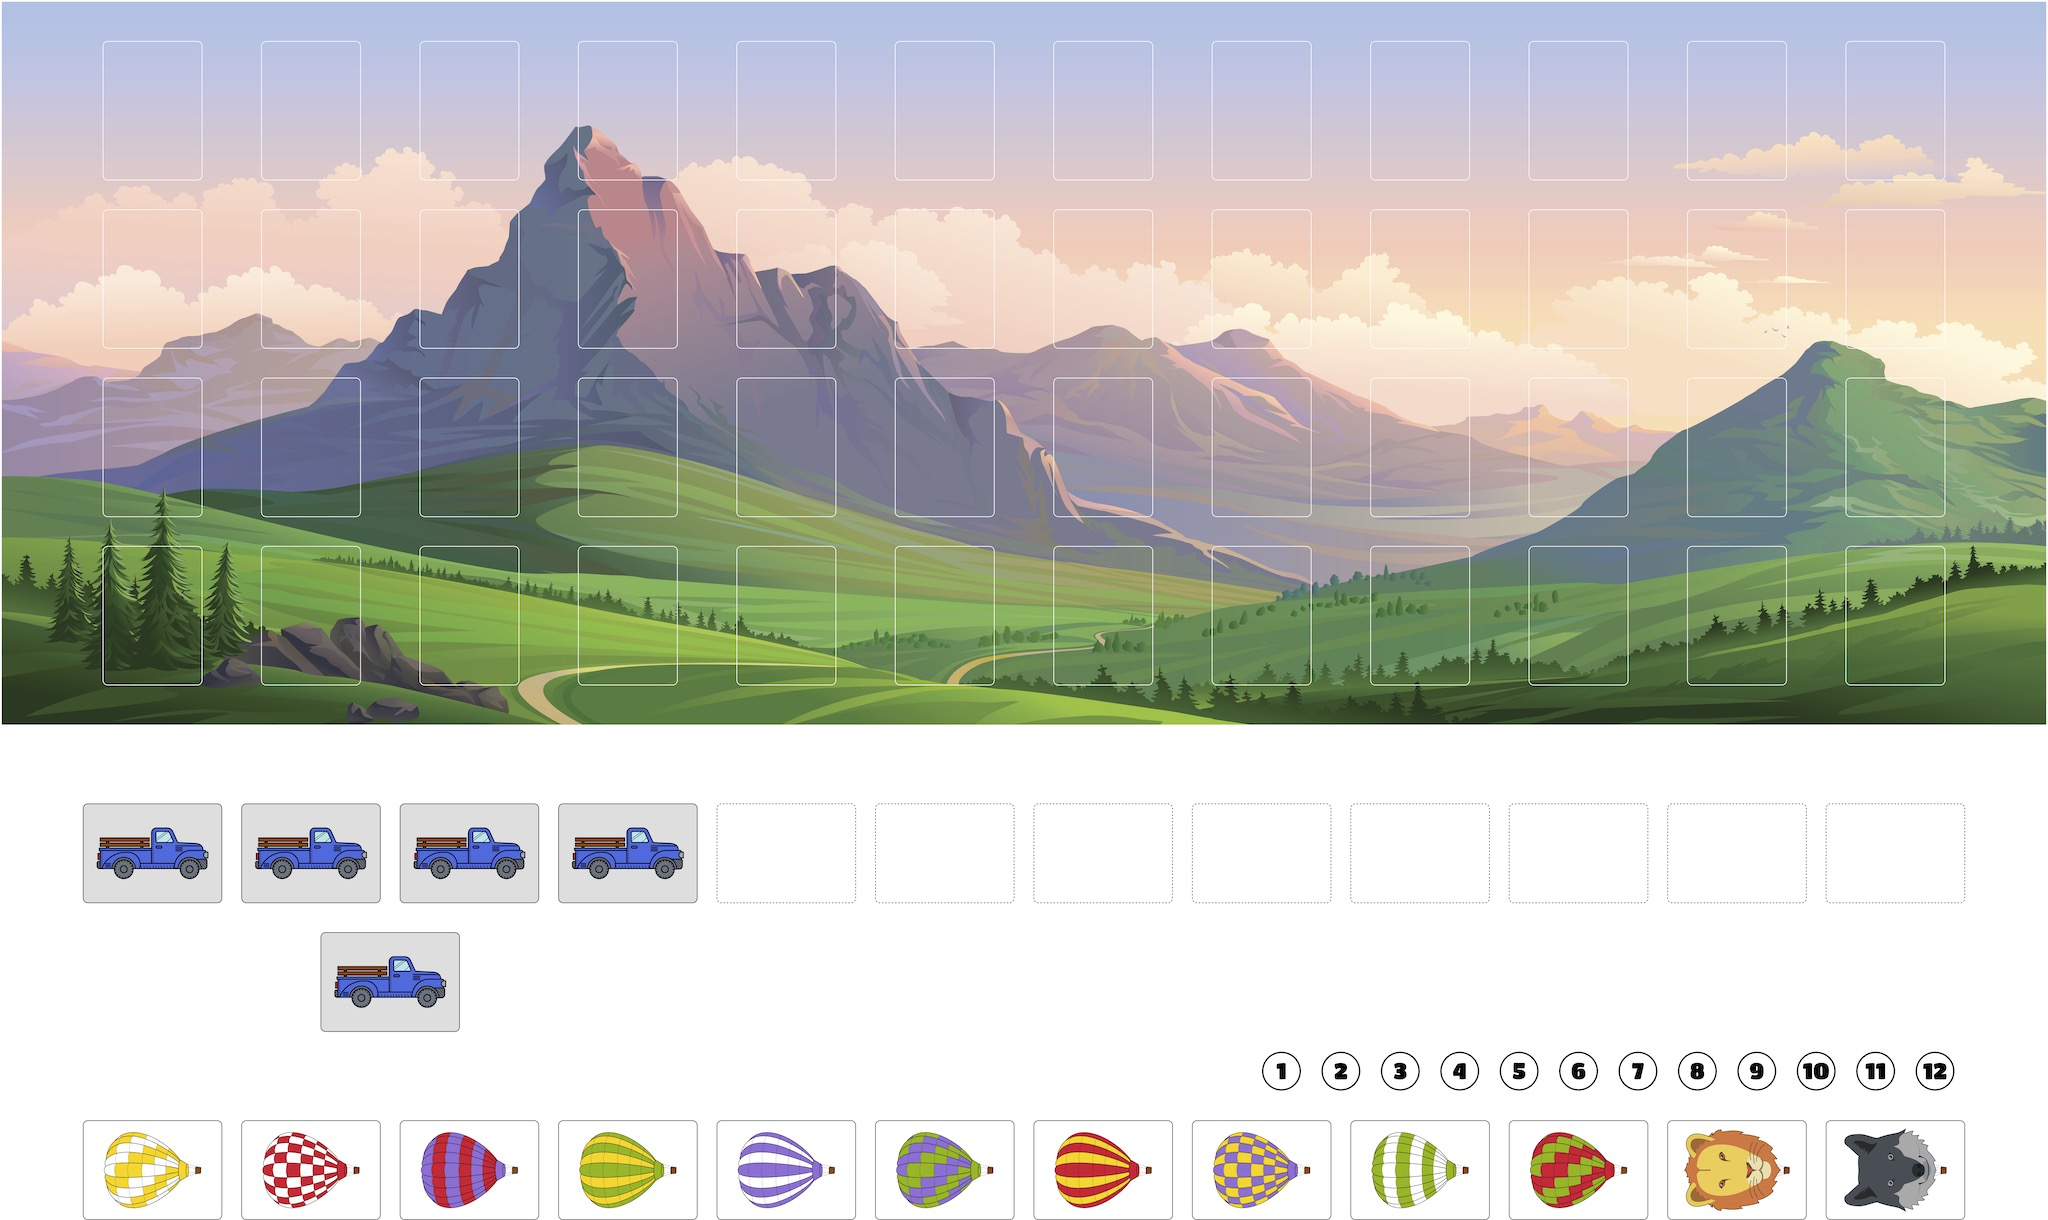
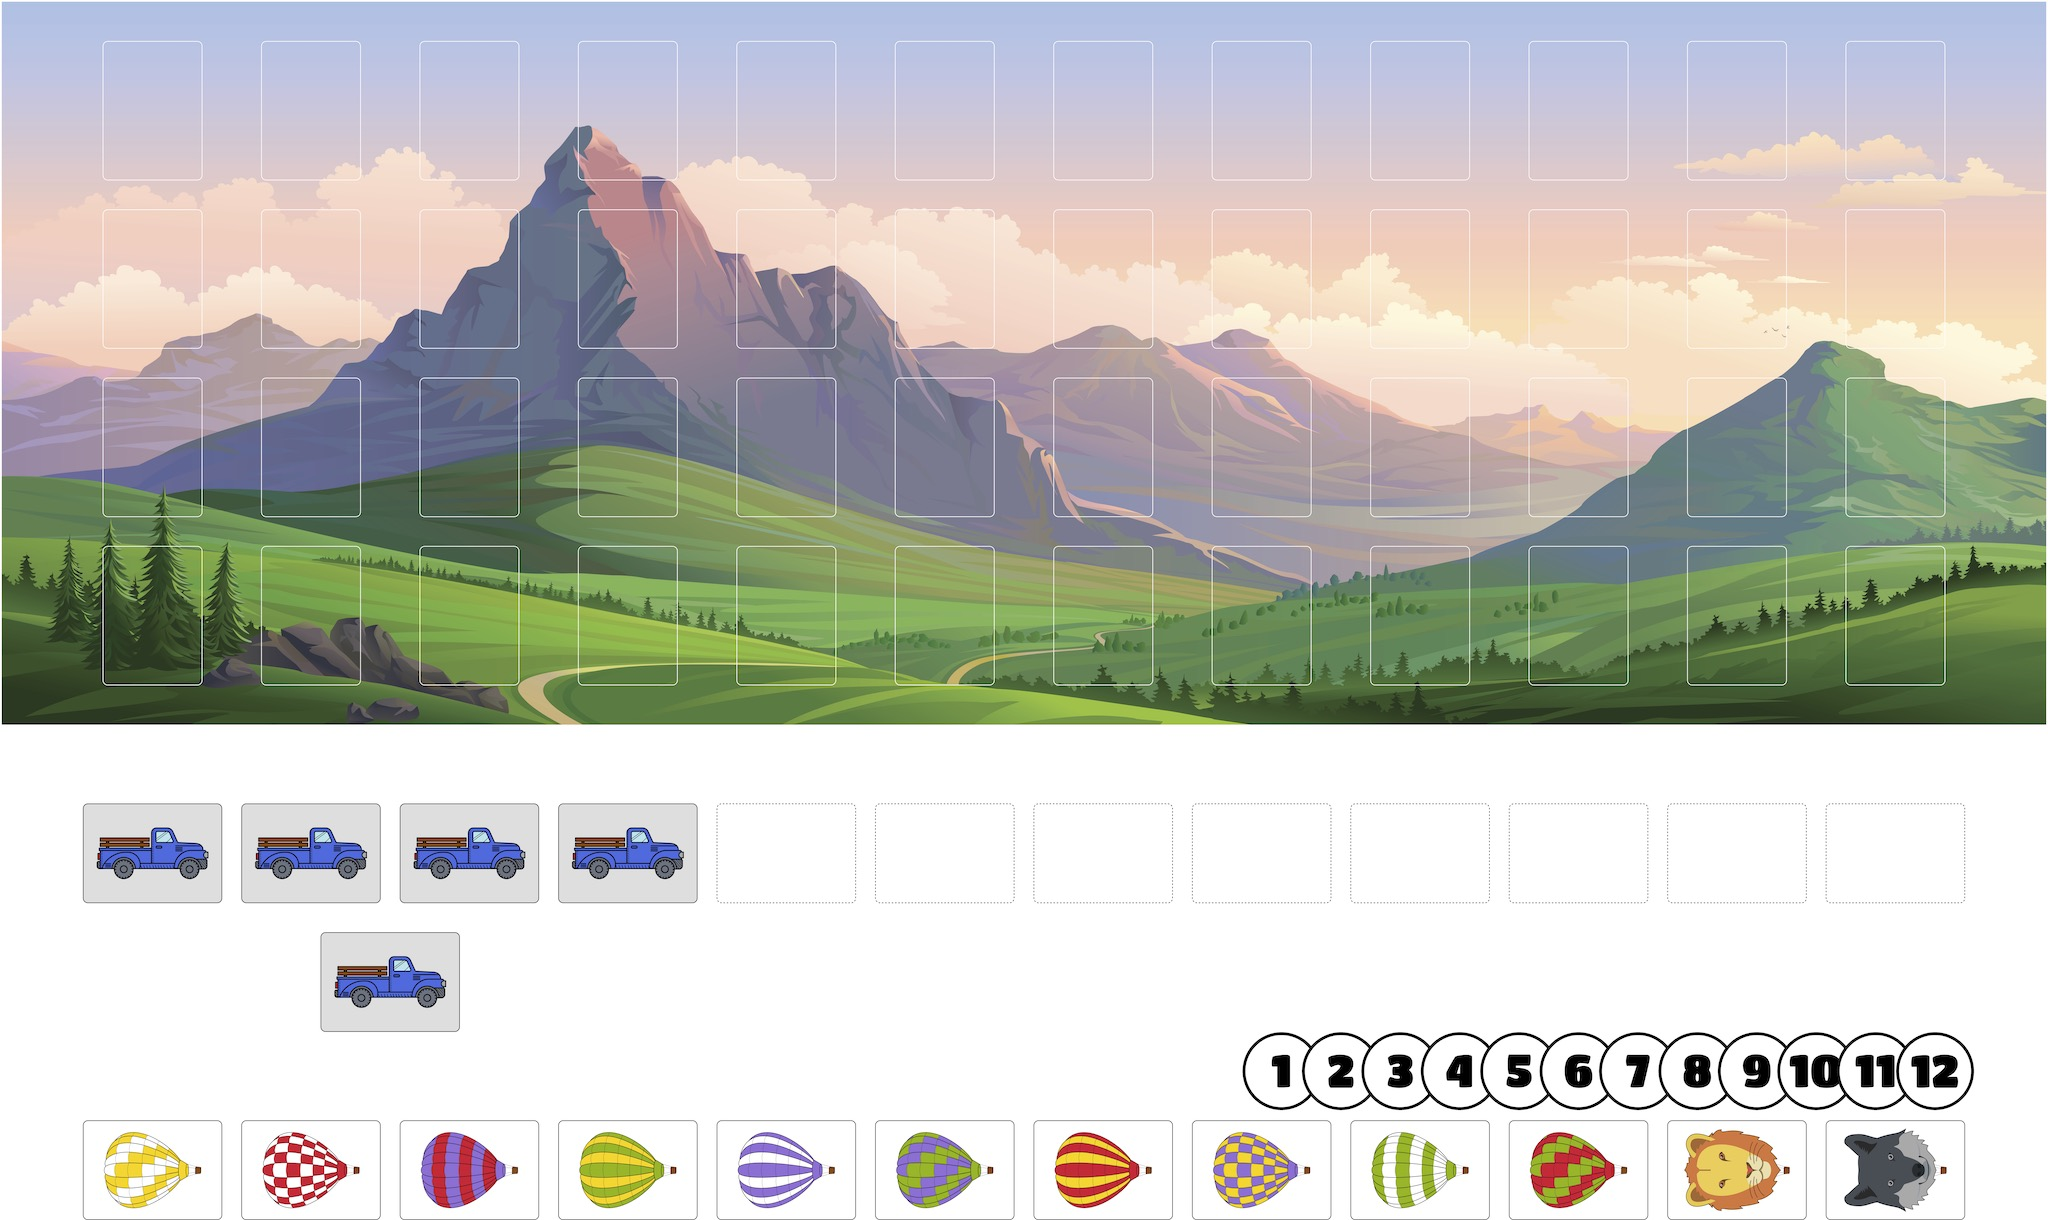
Add split balloons and update set up diagram.

Changed region(s): [[0.5938, 0.841, 0.9688, 0.9033]]

diff --git a/set_up_diagram.tex b/set_up_diagram.tex
@@ -40,7 +40,7 @@
 \node[cardposition, rotate=90] at (\i, -14) {\includegraphics[height=3.25in]{Images/\j}};
 
 \foreach \i/\k in {-15.5/scoring_token_1.png, -14/scoring_token_2.png, -12.5/scoring_token_3.png,-11/scoring_token_4.png, -9.5/scoring_token_5.png, -8/scoring_token_6.png, -6.5/scoring_token_7.png,-5/scoring_token_8.png, -3.5/scoring_token_9.png, -2/scoring_token_10.png, -0.5/scoring_token_11.png,1/scoring_token_12.png}
-\node at (\i,-11.5) {\includegraphics[width=25mm]{Images/\k}};
+\node at (\i,-11.5) {\includegraphics[width=50mm]{Images/\k}};
 
 \end{tikzpicture}
 
